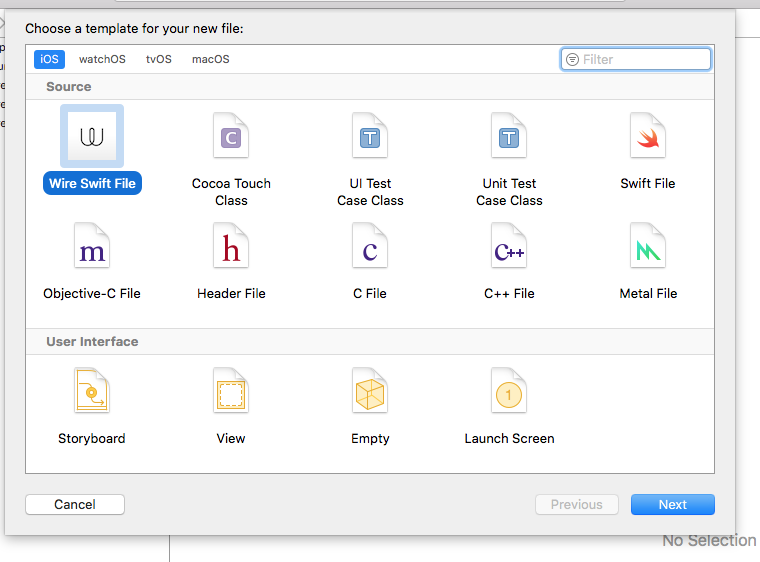
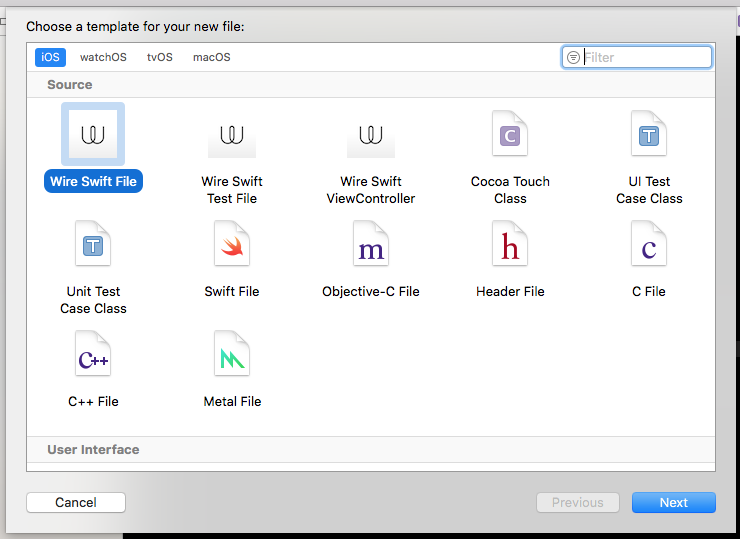
update readme

diff --git a/README.md b/README.md
@@ -9,6 +9,9 @@ a Swift file template for Wire's new swift file creation
 
 
 # How to use:
+
+## install
+
 ```bash
 $ git clone https://github.com/billypchan/wire-swift-file-xctemplate.git
 $ mkdir -p ~/Library/Developer/Xcode/Templates
@@ -17,9 +20,17 @@ $ cp ./wire-swift-file-xctemplate/IDETemplateMacros.plist  ~/Library/Developer/X
 ```
 - go to Xcode and press "Cmd + N" to create a new "Wire Swift File"
 
+## update
+go to wire-swift-file-xctemplate folder and run:
+
+````
+$ bash update.sh
+````
+
 # Features:
-- Wire boilplate with current year
+- Wire empty Swift file template
 - Wire test file template
+- Wire ViewController template
 
 # Reference:
 
